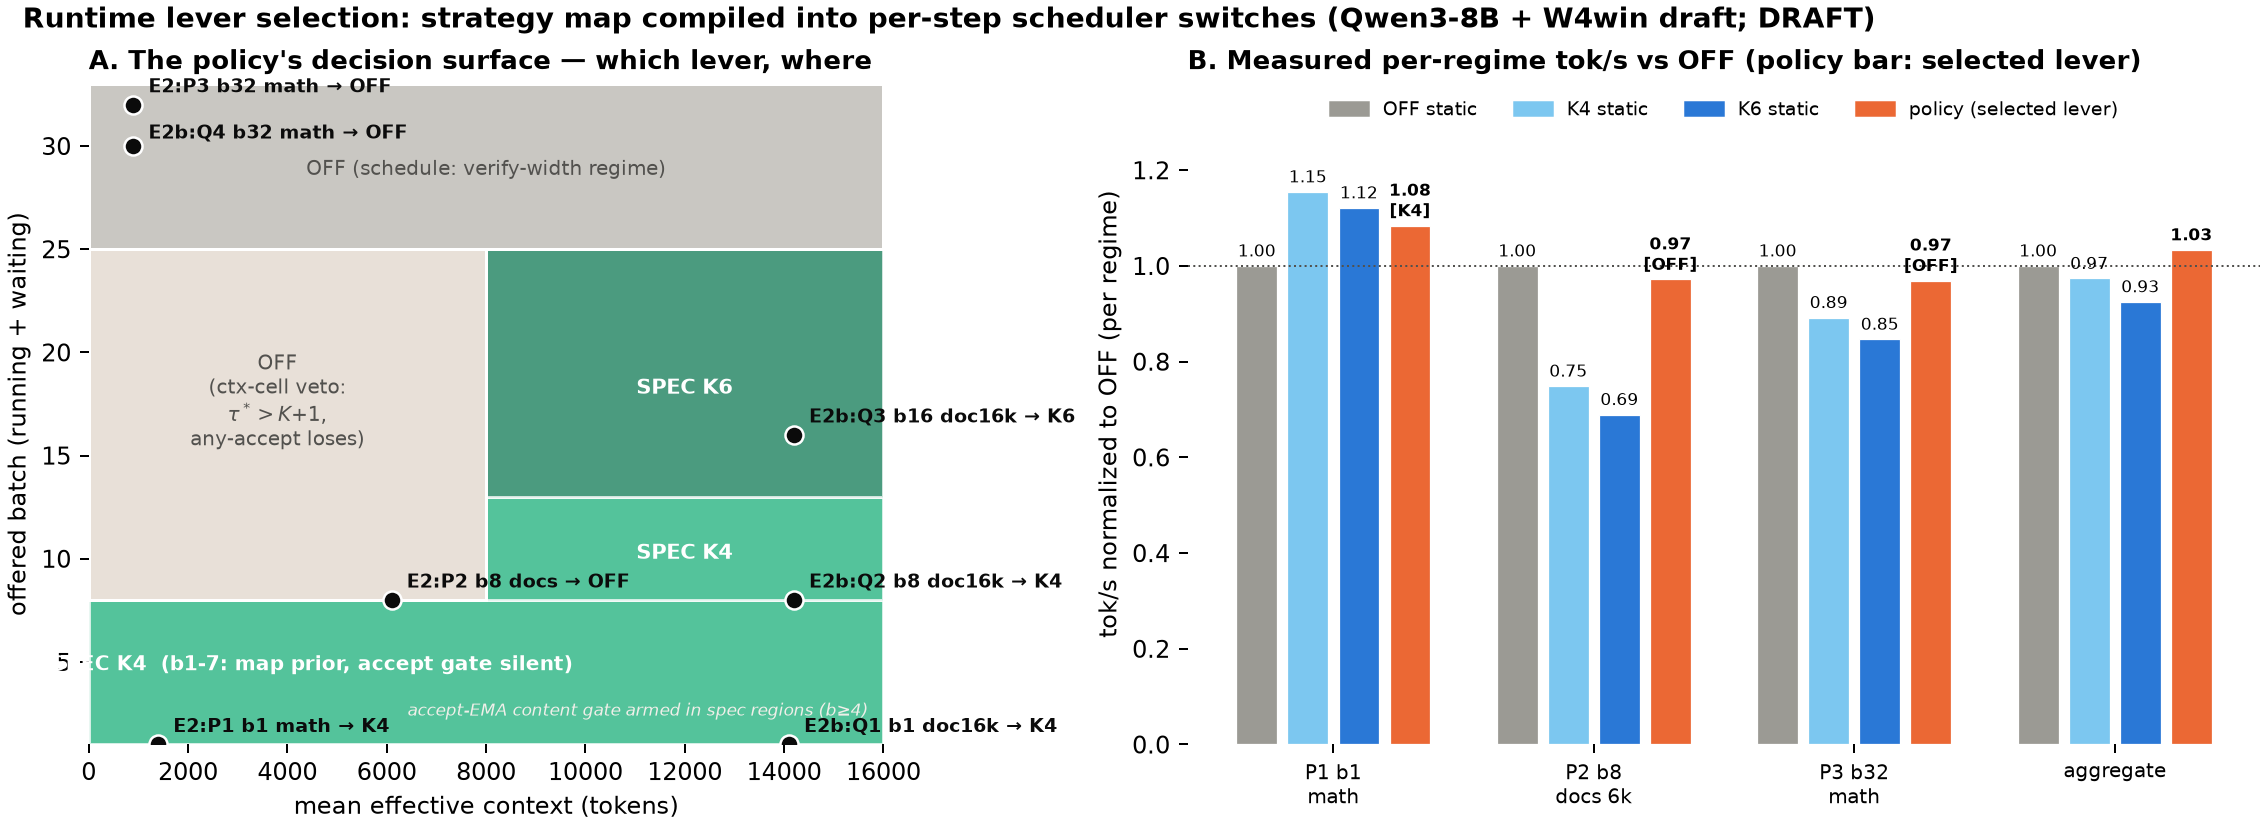
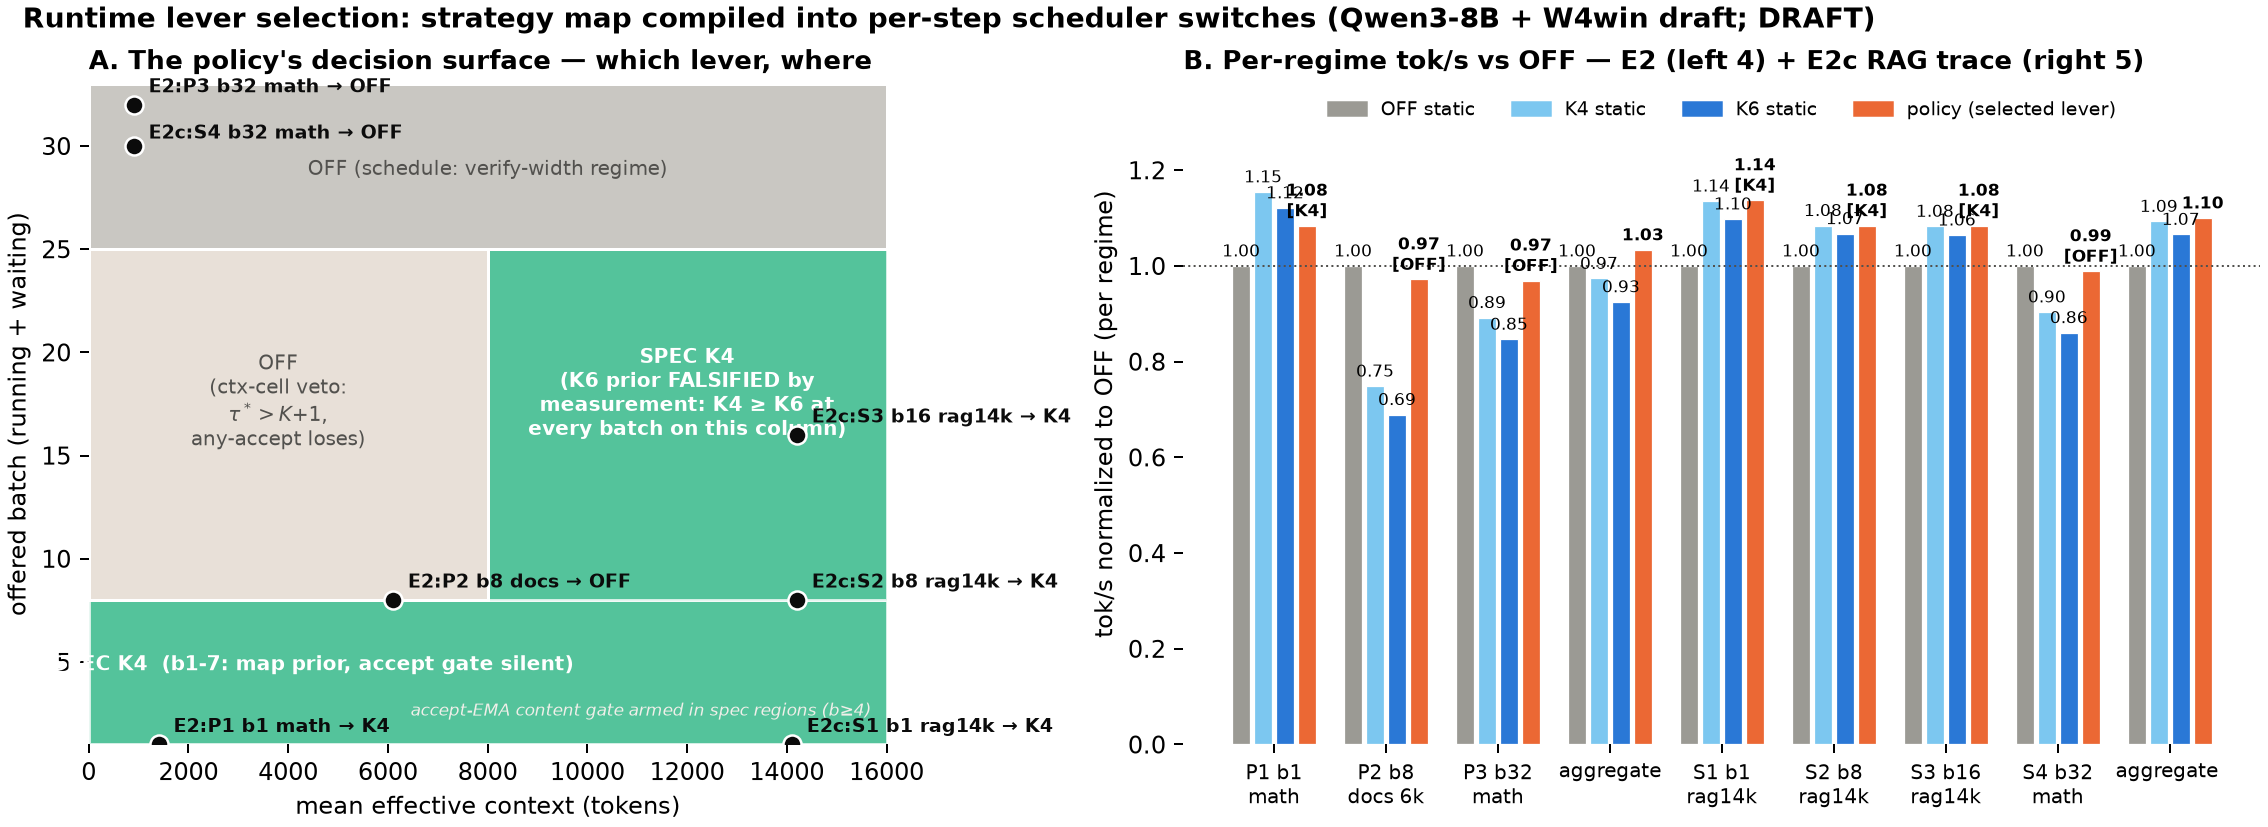
[W7][82] final lever-selection figure: measured decision surface + E2/E2c per-regime bars

diff --git a/research/82_runtime_switching/scripts/make_e2_figure.py b/research/82_runtime_switching/scripts/make_e2_figure.py
@@ -37,9 +37,8 @@ fig, (ax, bx) = plt.subplots(
 CTX_MAX, B_MAX = 16000, 33
 # regions (x0, x1, y0, y1, color, label)
 regions = [
-    (0, CTX_MAX, 1, 8, "K4", None),            # b1-7: K4 everywhere
-    (8000, CTX_MAX, 8, 13, "K4", None),        # b8-12 long ctx: K4
-    (8000, CTX_MAX, 13, 25, "K6", None),       # b13-24 long ctx: K6
+    (0, CTX_MAX, 1, 8, "K4", None),            # b1-7: K4 (map prior)
+    (8000, CTX_MAX, 8, 25, "K4", None),        # b8-24 long ctx: K4
     (0, 8000, 8, 25, "veto", None),            # ctx-cell veto -> OFF
     (0, CTX_MAX, 25, B_MAX, "OFF", None),      # schedule b>=25: OFF
 ]
@@ -50,10 +49,9 @@ for x0, x1, y0, y1, key, _ in regions:
         alpha=0.75 if key in ("K4", "K6") else 1.0))
 ax.text(4500, 4.6, "SPEC K4  (b1-7: map prior, accept gate silent)",
         ha="center", fontsize=8.2, color="white", fontweight="bold")
-ax.text(12000, 10.0, "SPEC K4", ha="center", fontsize=8.5,
-        color="white", fontweight="bold")
-ax.text(12000, 18, "SPEC K6", ha="center", fontsize=8.5,
-        color="white", fontweight="bold")
+ax.text(12000, 16, "SPEC K4\n(K6 prior FALSIFIED by\nmeasurement: "
+        "K4 ≥ K6 at\nevery batch on this column)", ha="center",
+        fontsize=8, color="white", fontweight="bold")
 ax.text(3800, 15.5, "OFF\n(ctx-cell veto:\n$\\tau^*>K{+}1$,\n"
         "any-accept loses)", ha="center", fontsize=8, color=C["ink2"])
 ax.text(8000, 28.6, "OFF (schedule: verify-width regime)",
@@ -65,10 +63,10 @@ TRACES = [  # (name, ctx, batch, selected, dy)
     ("E2:P1 b1 math", 1400, 1, "K4", 0),
     ("E2:P2 b8 docs", 6100, 8, "OFF", 0),
     ("E2:P3 b32 math", 900, 32, "OFF", 0),
-    ("E2b:Q1 b1 doc16k", 14100, 1, "K4", 0),
-    ("E2b:Q2 b8 doc16k", 14200, 8, "K4", 0),
-    ("E2b:Q3 b16 doc16k", 14200, 16, "K6", 0),
-    ("E2b:Q4 b32 math", 900, 30, "OFF", -2),
+    ("E2c:S1 b1 rag14k", 14100, 1, "K4", 0),
+    ("E2c:S2 b8 rag14k", 14200, 8, "K4", 0),
+    ("E2c:S3 b16 rag14k", 14200, 16, "K4", 0),
+    ("E2c:S4 b32 math", 900, 30, "OFF", -2),
 ]
 for name, x, b, sel, dy in TRACES:
     ax.scatter([x], [b], s=52, color=C["ink"], zorder=5,
@@ -96,6 +94,19 @@ E2_FINAL = {  # committed finals (results_e2.md)
     "aggregate": {"off": 957.9, "k4": 932.8, "k6": 886.1,
                   "policy": (990.1, "")},
 }
+E2C_FINAL = {
+    "S1 b1\nrag14k": {"off": 128.3, "k4": 145.7, "k6": 140.9,
+                      "policy": (145.9, "K4")},
+    "S2 b8\nrag14k": {"off": 514.5, "k4": 557.9, "k6": 549.2,
+                      "policy": (557.8, "K4")},
+    "S3 b16\nrag14k": {"off": 658.4, "k4": 712.9, "k6": 700.9,
+                       "policy": (713.7, "K4")},
+    "S4 b32\nmath": {"off": 4155.5, "k4": 3755.9, "k6": 3576.0,
+                     "policy": (4109.2, "OFF")},
+    "aggregate ": {"off": 587.6, "k4": 642.3, "k6": 626.3,
+                   "policy": (646.5, "")},
+}
+E2_FINAL.update(E2C_FINAL)
 SELMAP = {"Q1_b1_doc16k": "K4", "Q2_b8_doc16k": "K4",
           "Q3_b16_doc16k": "K6", "Q4_b32_aime2k": "OFF"}
 e2b = {}
@@ -154,7 +165,7 @@ t2, l2 = [], []
 bx.set_xticks(ticks, labels, fontsize=8)
 bx.axhline(1.0, color=C["ink2"], lw=0.8, ls=":")
 bx.set_ylabel("tok/s normalized to OFF (per regime)")
-bx.set_title("B. Measured per-regime tok/s vs OFF (policy bar: selected lever)",
+bx.set_title("B. Per-regime tok/s vs OFF — E2 (left 4) + E2c RAG trace (right 5)",
              loc="left", fontsize=10.5, fontweight="bold")
 leg = [mpatches.Patch(color=C["off_arm"], label="OFF static"),
        mpatches.Patch(color=C["k4_arm"], label="K4 static"),
